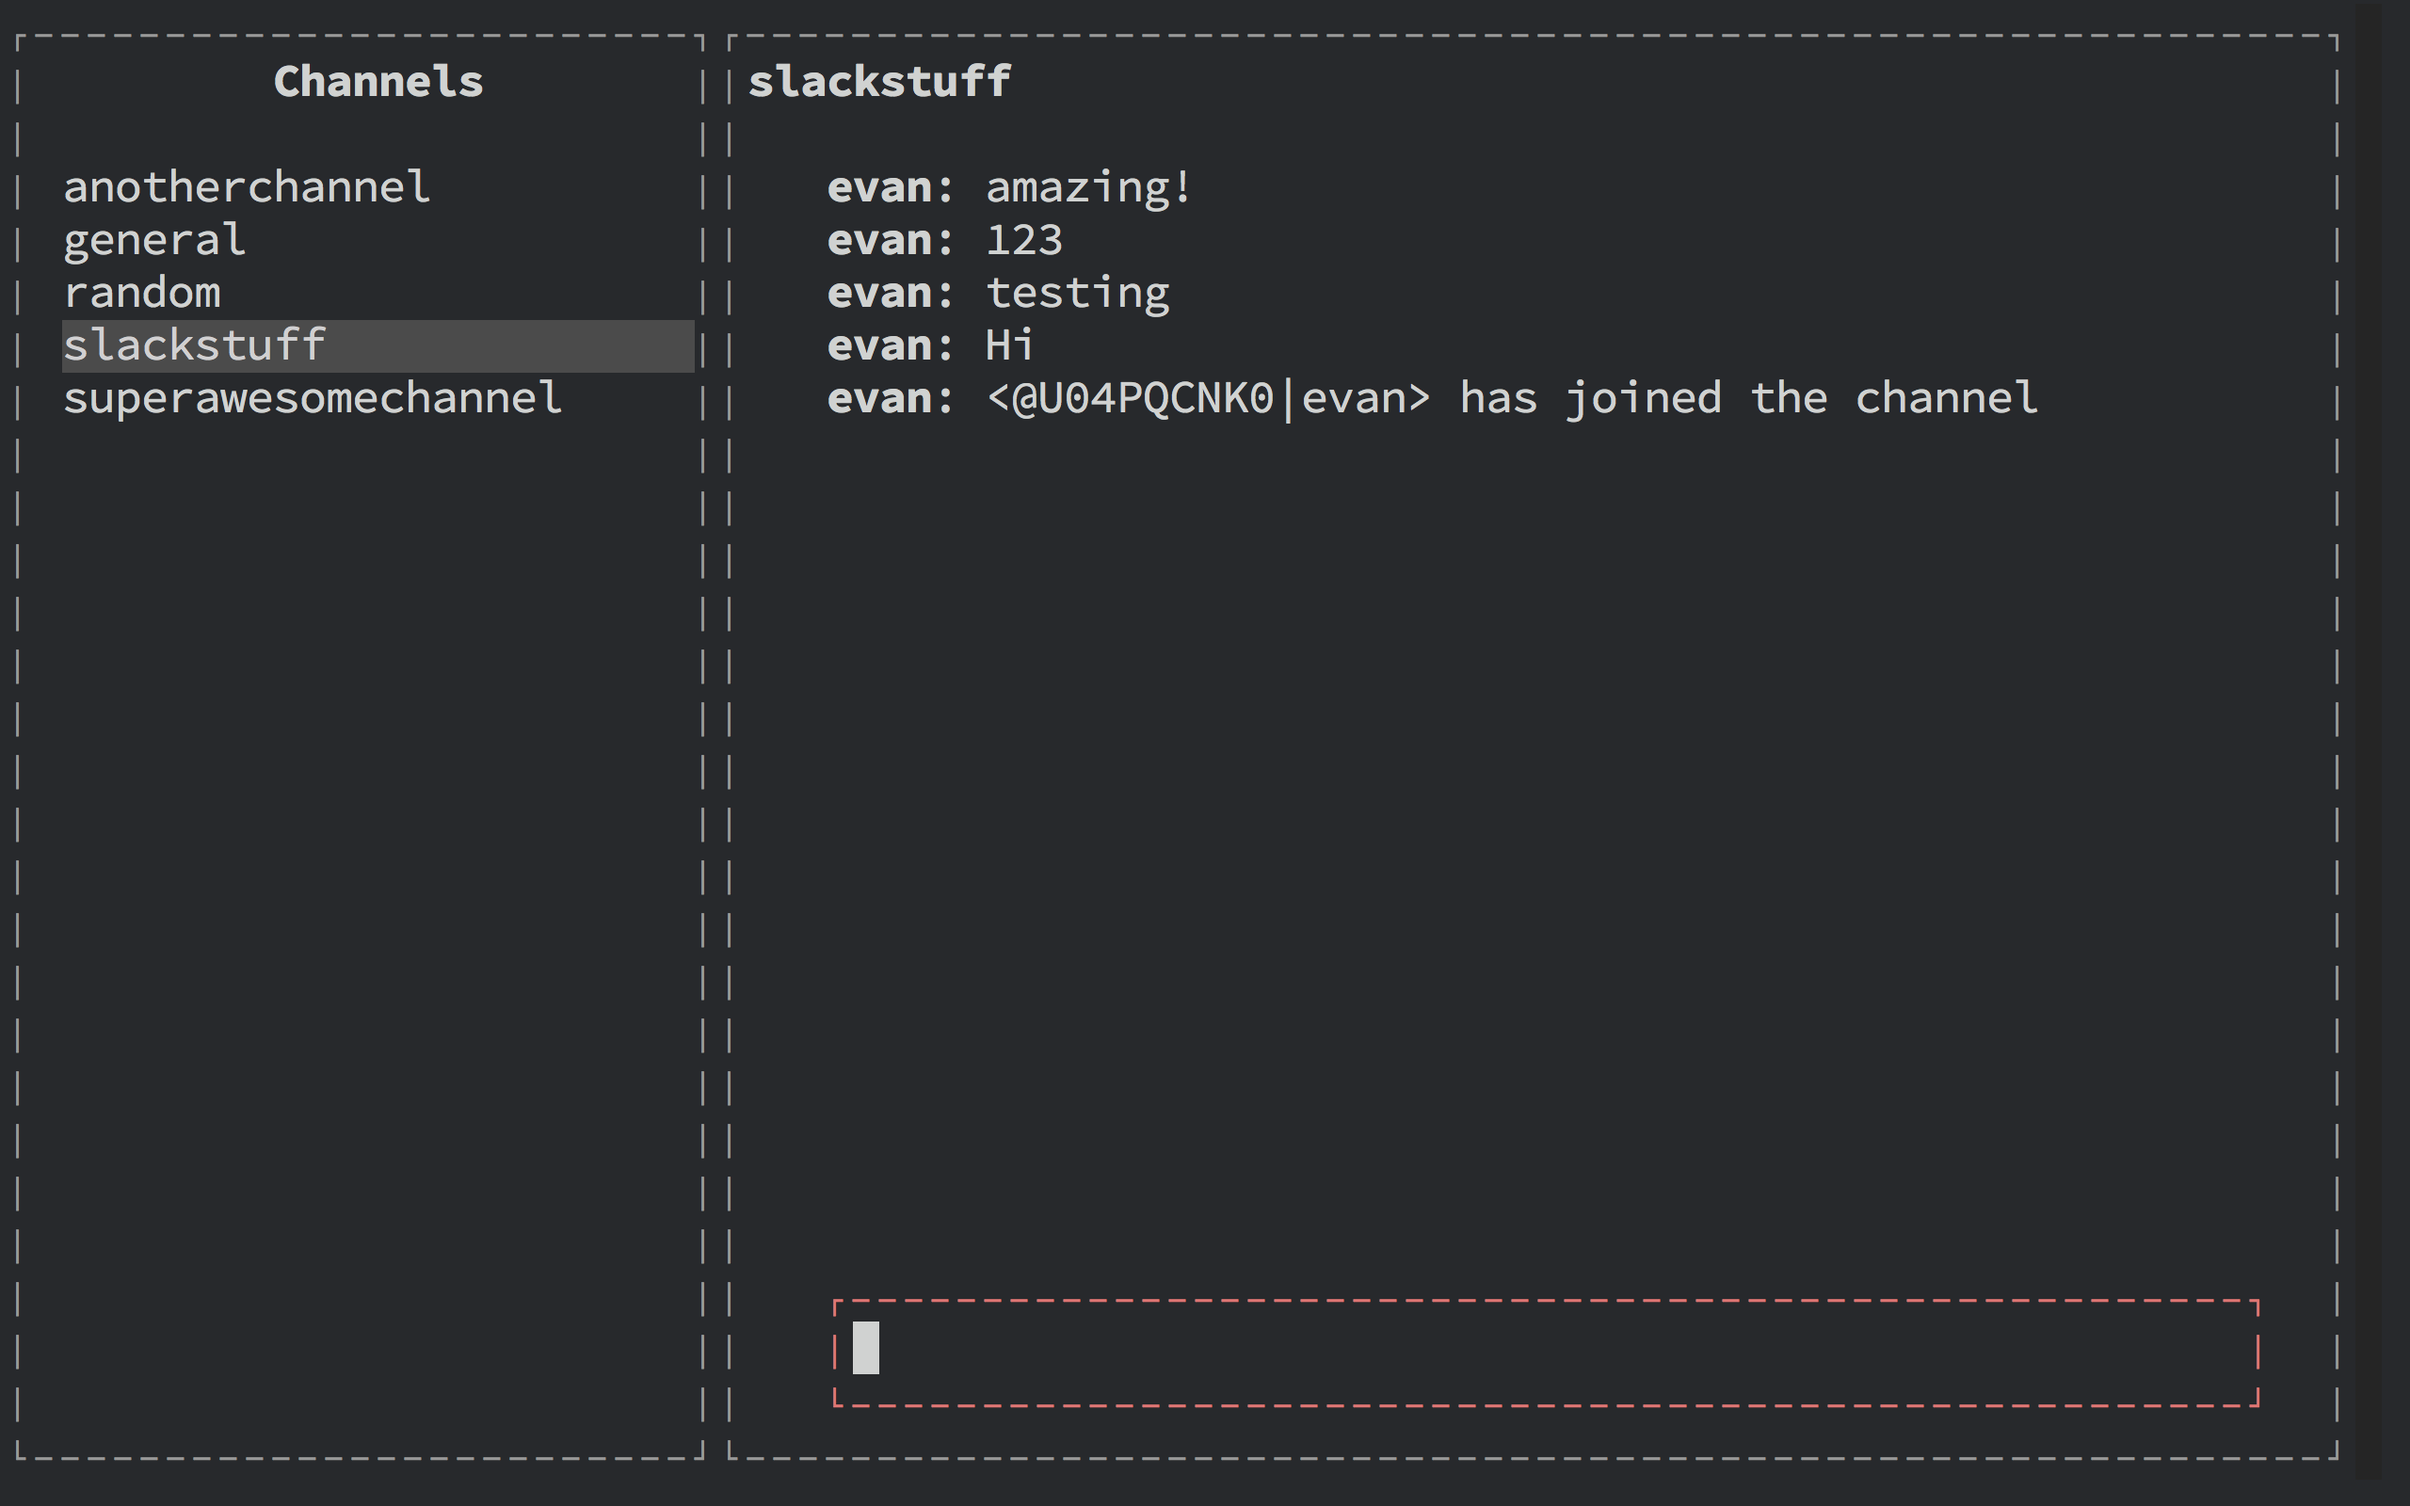
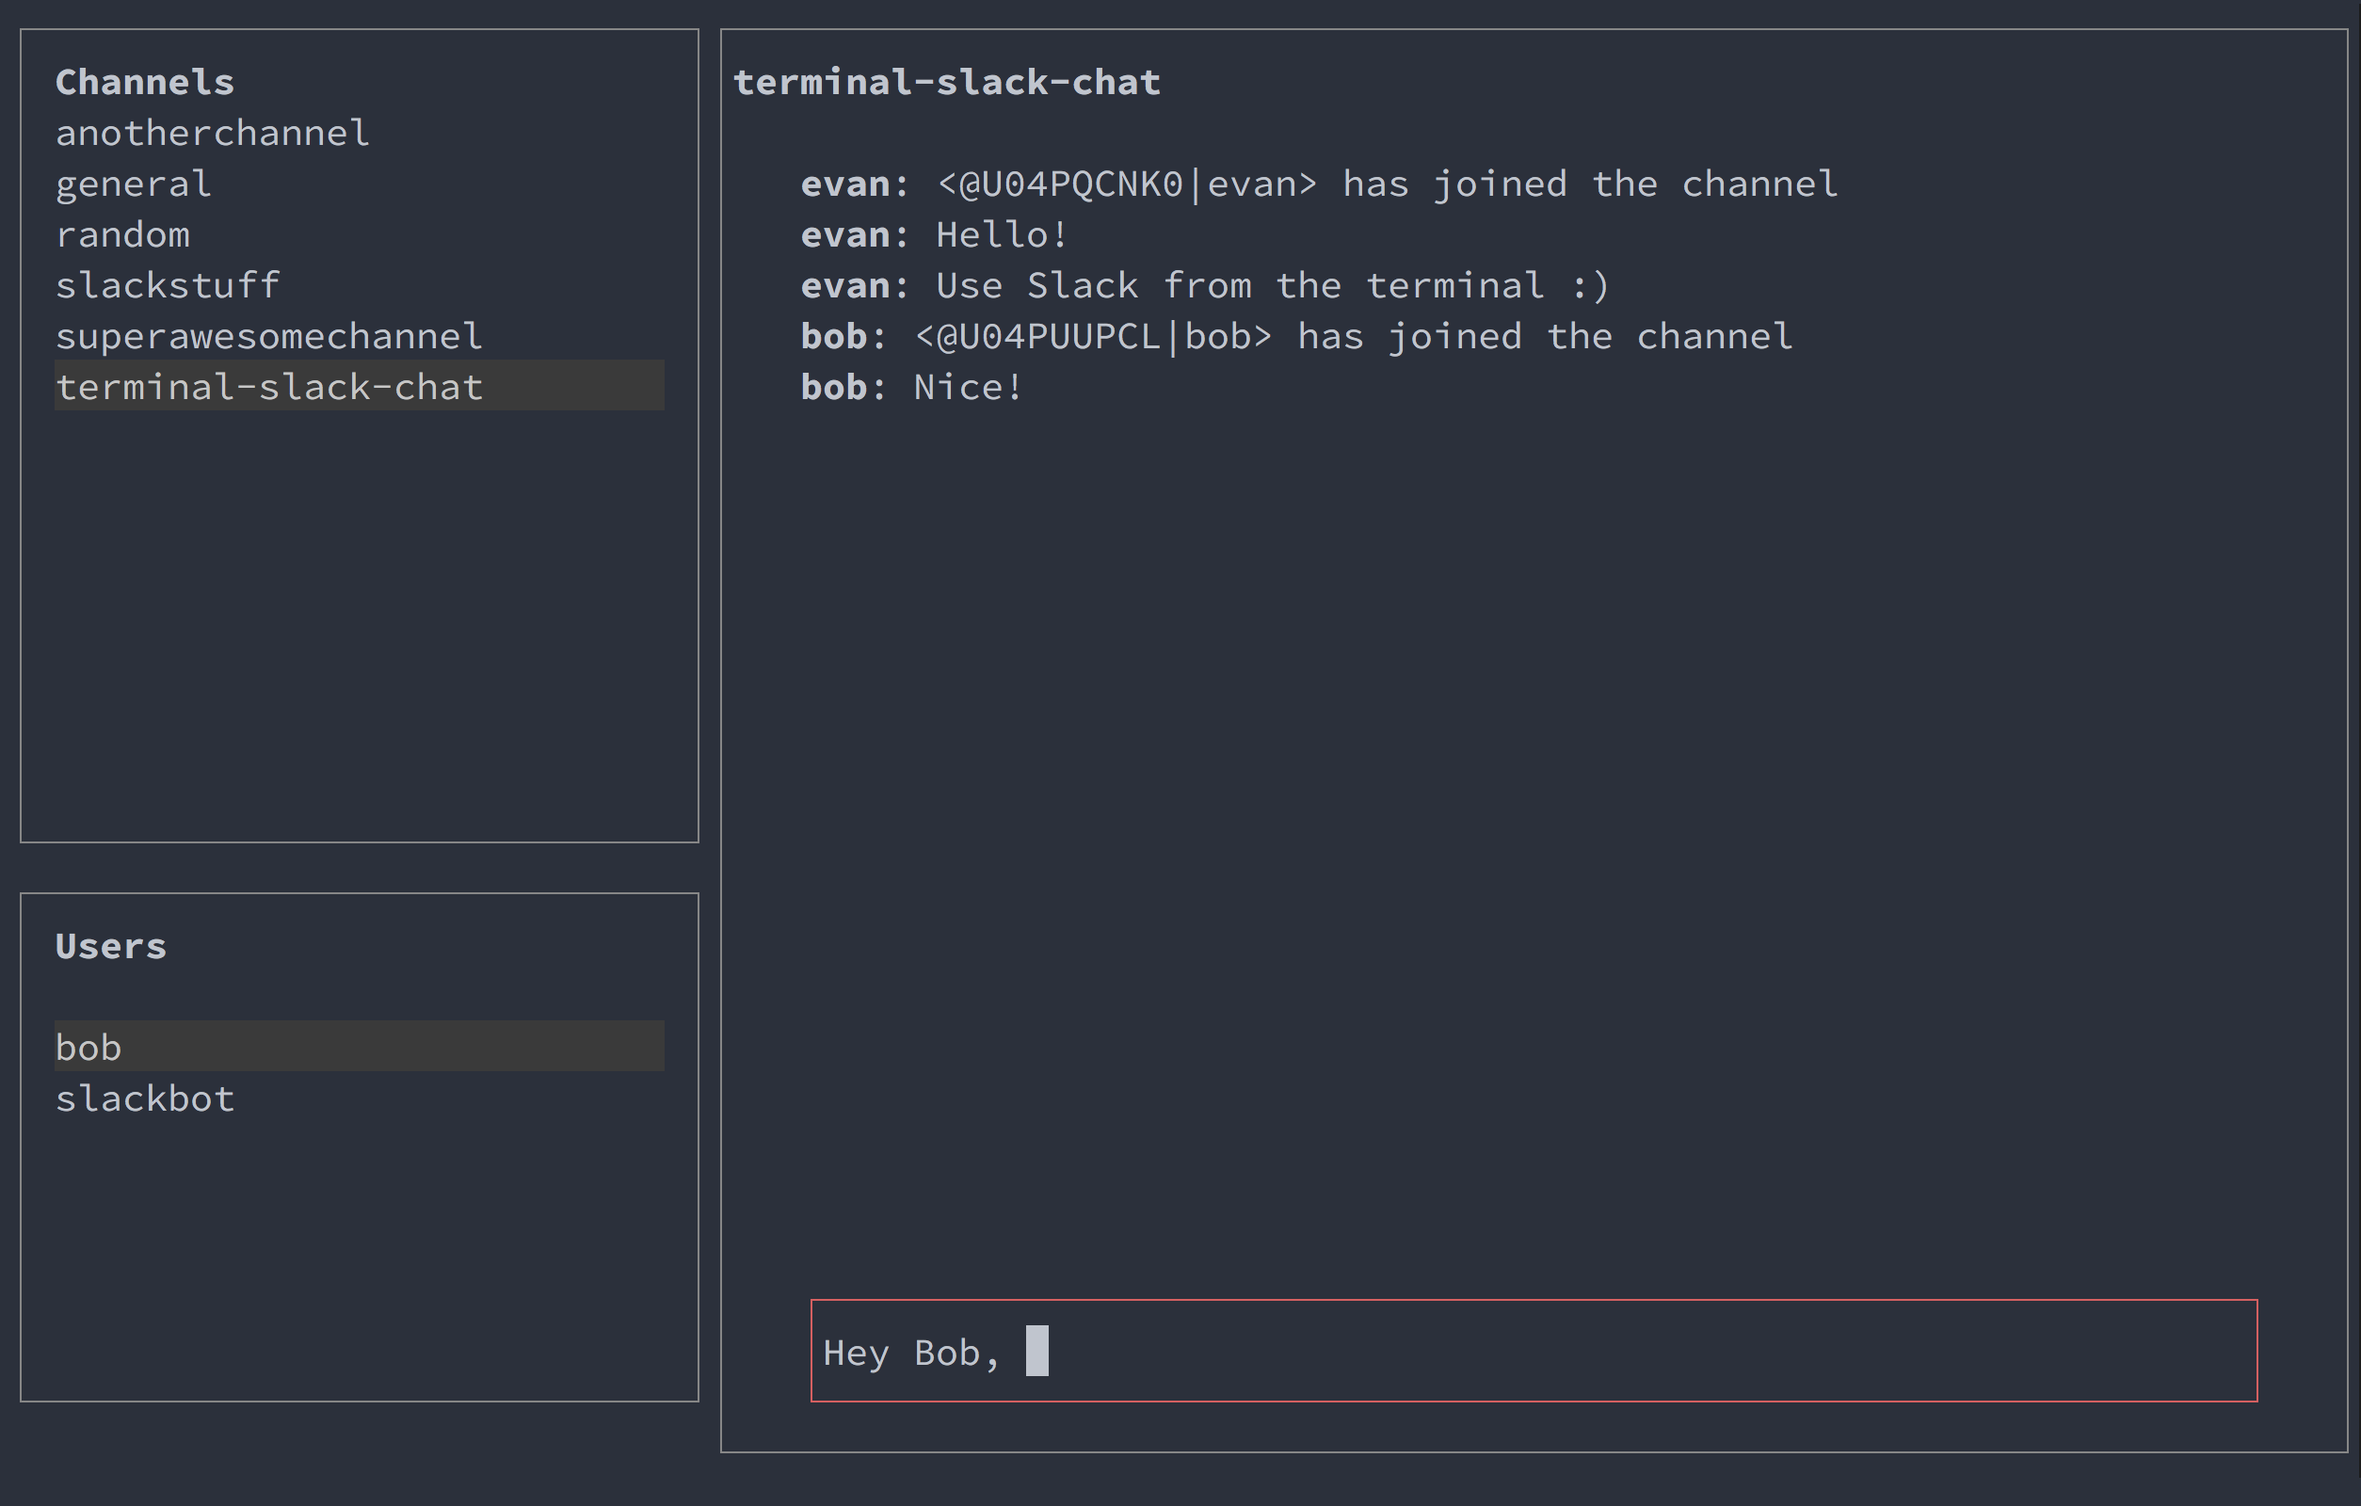
Update readme and screenshot.

diff --git a/readme.md b/readme.md
@@ -5,9 +5,9 @@ A terminal interface for Slack.
 
 ##Controls
  - Ctrl-u - select users list
-    - Use the arrow keys (j or k) and enter to select a channel
+    - Use the arrow keys (or j/k) and enter to select a channel
  - Ctrl-c - select channels list
-    - Use the arrow keys (j or k) and enter to select a channel
+    - Use the arrow keys (or j/k) and enter to select a channel
  - Ctrl-w - select writing area
     - Use enter to send a message
  - Ctrl-l - select message list
@@ -15,6 +15,8 @@ A terminal interface for Slack.
  - Escape - exit
  
 ##Setup
-This app is built on Node, which can be installed from https://nodejs.org/. It uses the Slack API token which can be found at https://api.slack.com/web and must be added to your environment variables. To do this, copy it and run the command `$export SLACK_TOKEN='[your token here]'` (or add it to your environment variables in an equivalent fashion). Run the app with `$node main.js`.
+Download and enter the directory with `$ git clone https://github.com/evanyeung/terminal-slack.git && cd terminal-slack`. Make sure you have node and npm installed (can be installed from https://nodejs.org/) and run `$ npm install` to install the dependencies.
+
+To connect to Slack, the app uses a Slack API token. This can be found at https://api.slack.com/web and must be added to your environment variables. To do this, copy it and run the command `$ export SLACK_TOKEN='[your token here]'` (or add it to your environment variables in an equivalent fashion). Run the app with `$ node main.js`.
 
 ![Alt text](screen-shot.png?raw=true "Terminal Slack")
